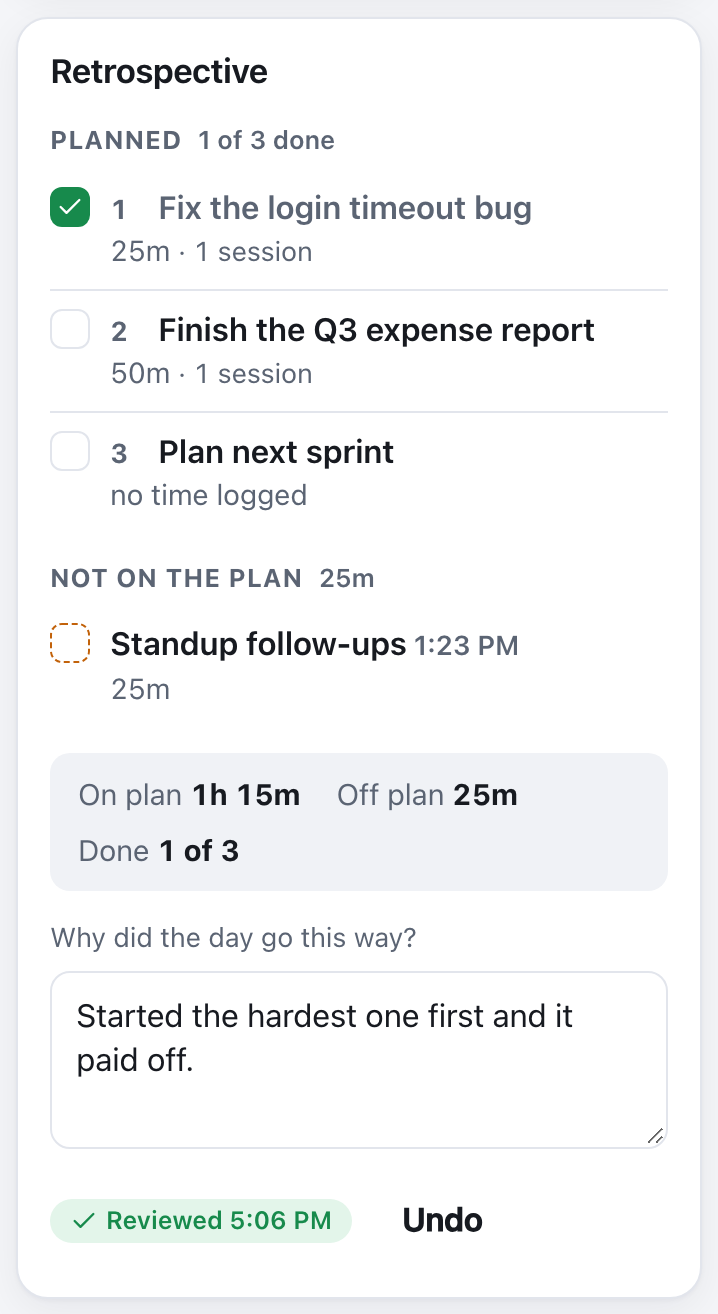
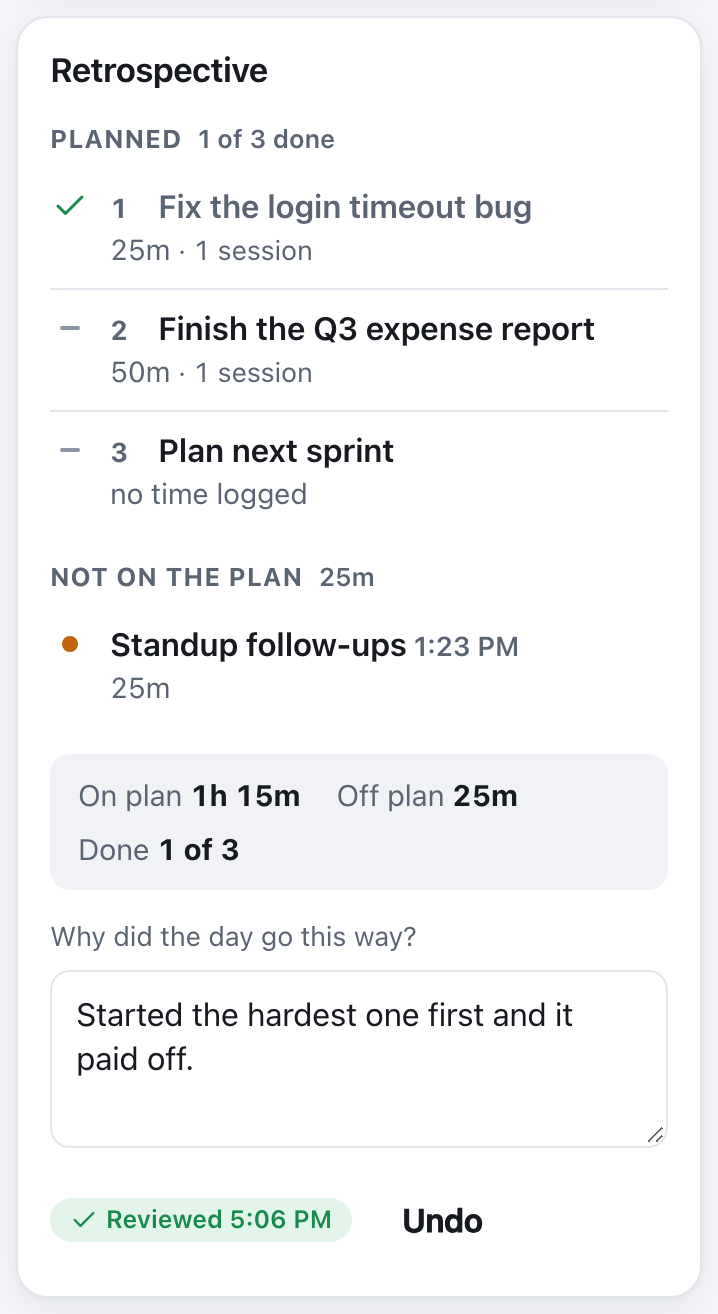
Show retro plan rows without checkbox squares (#69)
The retrospective marked each planned priority with a square, filled
green when done, and each off-plan session with a dashed amber square.
They are read-only, but a square next to a priority reads as a checkbox
waiting to be ticked.

The marks are now:
- a green check for done
- a muted dash for not done
- an amber dot for work off the plan

Nothing is box-shaped. The `Done` / `Not done` labels for screen readers
are unchanged. CSS only.

**Verified** at 375 px on seeded data, in light and dark: no border or
background on any mark, and the check, the dashes and the dot render as
described. Screenshots: `retro.png` and `sheet-desktop.png` regenerated
and committed. The others changed only by date drift and were reverted.
`test:coverage`, `typecheck`, `lint` and `format:check` all pass.

🤖 Generated with [Claude Code](https://claude.com/claude-code)

diff --git a/client/src/styles.css b/client/src/styles.css
@@ -1436,29 +1436,34 @@ button {
 .retro-row:first-child {
   border-top: 0;
 }
+/* Marks, not controls: a check for done, a dash for not done, an amber dot for work off the
+   plan. Nothing box-shaped, since a square here read as a checkbox waiting to be ticked. */
 .retro-tick {
   grid-area: tick;
   width: 20px;
   height: 20px;
   margin-top: 1px;
-  border-radius: 6px;
-  border: 1.5px solid var(--border);
   display: inline-flex;
   align-items: center;
   justify-content: center;
-  color: var(--accent-text);
+  color: var(--ok);
 }
-.retro-tick.is-done {
-  background: var(--ok);
-  border-color: var(--ok);
+.retro-tick:not(.is-done)::before {
+  content: '';
+  width: 10px;
+  height: 2px;
+  border-radius: 1px;
+  background: var(--text-3);
 }
 .retro-tick svg {
-  width: 14px;
-  height: 14px;
+  width: 18px;
+  height: 18px;
 }
-.retro-row--unplanned .retro-tick {
-  border-style: dashed;
-  border-color: var(--warn);
+.retro-row--unplanned .retro-tick::before {
+  width: 8px;
+  height: 8px;
+  border-radius: 50%;
+  background: var(--warn);
 }
 .retro-text {
   grid-area: text;
